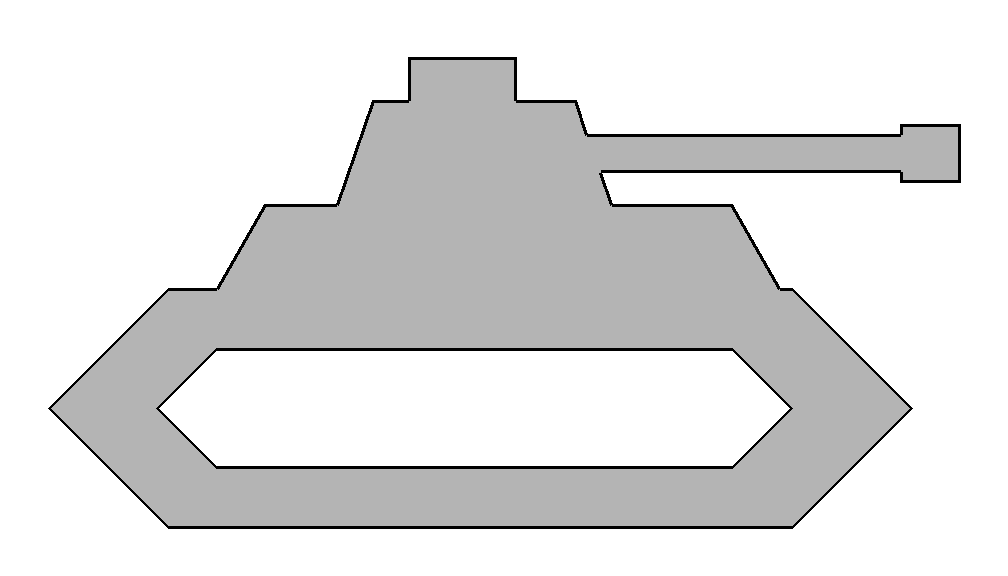
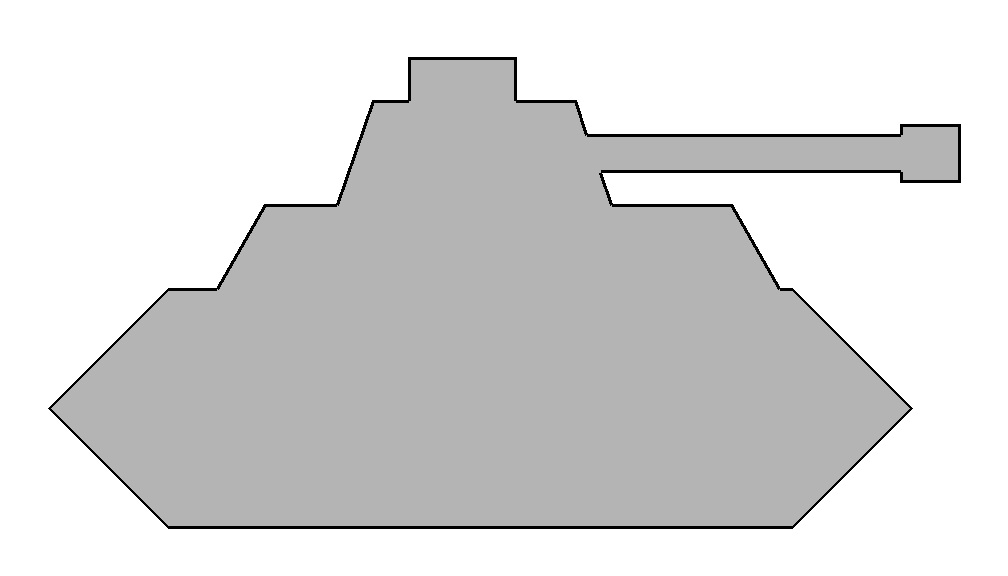
Remove inner track band contour — solid silhouette only
https://claude.ai/code/session_01RBgFW941Ke1xuNFVRmd59s

Changed region(s): [[0.1538, 0.5938, 0.7996, 0.8125]]

diff --git a/toy_tank/generate_tank.py b/toy_tank/generate_tank.py
@@ -50,7 +50,7 @@ TRACK_BAND = [
     (4.5, 5.0),
 ]
 
-CONTOURS = [SILHOUETTE, TRACK_BAND]
+CONTOURS = [SILHOUETTE]
 
 
 def dxf() -> str: